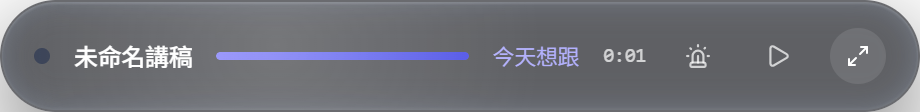
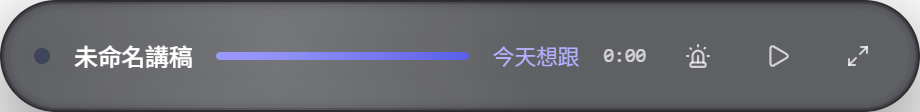
Kill the dynamic-island glow halo that the previous two edge fixes missed
The white edge survived the DWM frame removal and the glass border
darkening because neither touches the state glow: an inset shadow peaks
right at the shape's outermost pixel, so retargeting it inward (085013f)
actually pressed the bright ring against the window boundary. Per-pixel
profiling shows the edge/centre ratio at 0.46 with the glow off but 1.85
in the worst (amber) state. Suppress it with a dark inner ring plus a
negative spread, tuned against all six real state colours - amber is far
brighter than green or red, so tuning on green alone misses two states.

The glow's opacity was also inert: @keyframes di-glow-breathe overrode
opacity:var(--di-glow-o) outright, so the 0.45/0.8 values OverlayApp sends
per state never applied. Breathe from the variable instead, keeping the
state colours meaningful (1.6-2.0x lift over the glow-off control).

diff --git a/src/renderer/src/styles/global.css b/src/renderer/src/styles/global.css
@@ -111,15 +111,16 @@ body {
     0 12px 40px rgba(0, 0, 0, 0.42);
 }
 
-/* 浮層表面:窗後 acrylic 開啟時降低自身底色讓材質透出 */
+/* 浮層表面:窗後 acrylic 開啟時降低自身底色讓材質透出。
+   邊緣用暗色髮絲 + 移除白色 inset 高光:亮邊框與白色高光在深色內容上
+   就是一圈白邊(逐像素實測邊緣/中心亮度比 1.85 倍,見 .dynamic-island-pill)。 */
 .glass-overlay {
   background: rgba(12, 14, 20, 0.62);
   -webkit-backdrop-filter: blur(20px) saturate(1.8);
   backdrop-filter: blur(20px) saturate(1.8);
-  border: 1px solid rgba(255, 255, 255, 0.07);
+  border: 1px solid rgba(5, 6, 10, 0.5);
   box-shadow:
-    inset 0 1px 1px rgba(255, 255, 255, 0.16),
-    inset 0 -1px 1px rgba(255, 255, 255, 0.06),
+    inset 0 0 0 1px rgba(0, 0, 0, 0.18),
     0 16px 48px rgba(0, 0, 0, 0.5);
 }
 
@@ -127,11 +128,13 @@ body {
   background: rgba(12, 14, 20, 0.66);
   -webkit-backdrop-filter: blur(20px) saturate(1.8);
   backdrop-filter: blur(20px) saturate(1.8);
-  /* 邊框/高光減白:視窗就是元素本身的大小,亮邊框在深色桌布上就是一圈白邊 */
-  border: 1px solid rgba(255, 255, 255, 0.07);
+  /* 暗色髮絲:定義輪廓但不發亮;白邊實測來源就是白 border + inset 白高光。
+     內側那圈 inset 0 0 0 1px 看似冗餘(拿掉後最外 0-1px 像素完全不變),
+     但實測拿掉會讓 2-3px 帶變亮(20.8 → 23.4)——而 2-3px 正是光暈亮環
+     成形的位置,所以這圈是有效的,不能省。 */
+  border: 1px solid rgba(5, 6, 10, 0.55);
   box-shadow:
-    inset 0 1px 1px rgba(255, 255, 255, 0.16),
-    inset 0 -1px 1px rgba(255, 255, 255, 0.06),
+    inset 0 0 0 1px rgba(0, 0, 0, 0.2),
     0 18px 50px rgba(0, 0, 0, 0.55);
 }
 
@@ -370,12 +373,14 @@ h2 {
 }
 
 /* ── 靈動島藥丸:狀態光暈呼吸 + 事件事件淡出 ─────────────────────
- * 光暈以 box-shadow 呈現,由 --di-glow / --di-glow-o 兩個 CSS 變數驅動;
- * 呼吸動畫只動 opacity 變數(合成器層,不掉幀)。事件淡出用獨立 keyframes。
- */
+ * 光暈以 box-shadow 呈現,由 --di-glow / --di-glow-o 兩個 CSS 變數驅動。
+ * 呼吸動畫只動 opacity(合成器層,不掉幀)。事件淡出用獨立 keyframes。
+ * 注意:CSS animation 優先級高於一般屬性宣告 —— 這裡若把 opacity 寫死成
+ * 數值,::before 上的 opacity:var(--di-glow-o) 會被整個覆蓋,OverlayApp 依狀態
+ * 傳的 0.45(待機)/0.8(播放)形同虛設,待機時也比預期亮。必須以變數為基準。 */
 @keyframes di-glow-breathe {
-  0%, 100% { opacity: 0.55; }
-  50% { opacity: 1; }
+  0%, 100% { opacity: calc(var(--di-glow-o, 0.6) * 0.7); }
+  50% { opacity: var(--di-glow-o, 0.6); }
 }
 
 @keyframes di-pop-in {
@@ -405,7 +410,17 @@ h2 {
      改向內暈,光感存在且不被裁 */
   inset: 0;
   border-radius: inherit;
-  box-shadow: inset 0 0 14px var(--di-glow, rgba(148, 163, 184, 0.45));
+  /* 狀態光暈:兩層,順序有意義(box-shadow 清單第一層畫在最上)
+     1. 暗環壓邊 — inset 陰影的亮度峰值就在形狀最外圈,不壓住的話亮光直接
+        蓋在視窗邊緣那一像素上,就是「白邊光暈」
+     2. 負 spread 把峰值推到邊界內側再糊開,亮環因此不貼邊
+     參數來自實測掃描(六個真實狀態色逐像素剖面,取各狀態「邊緣/中心」比值
+     的最差者):未壓邊時琥珀色高達 1.85 倍(白邊最明顯的狀態),下列參數
+     降到 0.86 倍,光暈本身仍看得見(狀態色語意保留)。琥珀亮度遠高於綠/紅,
+     調參必須以琥珀為準。 */
+  box-shadow:
+    inset 0 0 6px rgba(6, 8, 14, 0.95),
+    inset 0 0 22px -8px var(--di-glow, rgba(148, 163, 184, 0.4));
   opacity: var(--di-glow-o, 0.6);
   animation: di-glow-breathe 3.2s ease-in-out infinite;
   pointer-events: none;

diff --git a/src/renderer/src/overlay/OverlayApp.tsx b/src/renderer/src/overlay/OverlayApp.tsx
@@ -752,8 +752,8 @@ export default function OverlayApp(): JSX.Element {
         <RescueCard phase={panicPhase} rescue={rescue} errorMsg={errorMsg} onDismiss={dismissRescue} />
       )}
 
-      {/* 進度條 */}
-      <div className="pointer-events-none absolute bottom-0 left-0 right-0 h-[3px] bg-white/5">
+      {/* 進度條(軌道用暗色:底部 2px 亮軌在深色內容上讀作白邊)*/}
+      <div className="pointer-events-none absolute bottom-0 left-0 right-0 h-[3px] bg-black/30">
         <div
           className="h-full bg-gradient-to-r from-accent-400 to-accent-600 transition-[width] duration-150"
           style={{ width: `${shownProgress * 100}%` }}

diff --git a/CHANGELOG.md b/CHANGELOG.md
@@ -10,6 +10,9 @@
 ### 修復（視覺）
 
 - **浮層白邊的真正根因（視窗層）**：Windows 上 frameless 視窗預設帶 `WS_THICKFRAME`，DWM 會沿視窗矩形外緣畫一圈 1px 淺色邊框——它由系統合成、在 web 內容之外，上一輪把 CSS 邊框 alpha 降到 0.07 自然蓋不掉。overlay 視窗加 `thickFrame: false` 移除系統邊框，藥丸/貼鏡/展開三種形態一併受惠。
+- **浮層白邊的第二層根因（狀態光暈貼邊）**：前兩輪只修了視窗層與玻璃邊框，白邊仍舊存在——真因是藥丸狀態光暈。`inset 0 0 14px` 的亮度峰值就落在形狀最外圈，而上一輪把它從外擴改成內縮，等於把亮光直接壓在視窗邊緣那一像素上。逐像素實測：光暈關閉時邊緣/中心亮度比 0.46（乾淨），開啟後最差的琥珀狀態飆到 **1.85 倍**，外觀就是白邊光暈。改用「暗環壓邊 + 負 spread 退到內側」，六個真實狀態色全數降到 ≤0.86，光暈本身仍保留（相對關閉時 1.6–2.0 倍抬升，狀態色語意不變）。參數以琥珀色為準——它亮度遠高於綠/紅，只用綠色調參會漏掉。
+- **狀態光暈的 opacity 設定形同虛設**：`.dynamic-island-pill::before` 上的 `opacity: var(--di-glow-o)` 被 `@keyframes di-glow-breathe` 整個覆蓋（CSS animation 優先級高於一般屬性宣告），OverlayApp 依狀態傳的 0.45（待機）/ 0.8（播放）從未生效，待機時實際也比預期亮。呼吸動畫改以變數為基準後，狀態語意才真的作用。
+- **玻璃面板邊框改為暗色髮絲**：`.glass-overlay` / `.glass-pill` 移除白色 inset 高光與亮邊框。內側 `inset 0 0 0 1px` 看似冗餘（拿掉後最外 0-1px 像素完全不變），但實測拿掉會讓 2-3px 帶變亮——而 2-3px 正是光暈亮環成形的位置，故保留。
 
 ### 修復（冷啟動/UX 巡檢）
 
